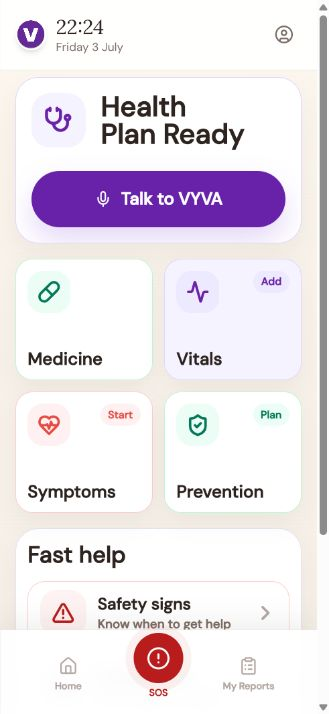
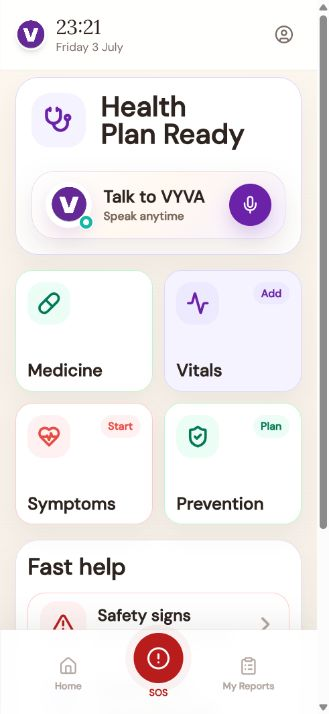
Soften VYVA voice entry

diff --git a/src/components/VyvaSessionCta.tsx b/src/components/VyvaSessionCta.tsx
@@ -1,5 +1,6 @@
 import { useEffect, useMemo, useState } from "react";
 import { Loader2, MessageCircle, Mic } from "lucide-react";
+import vyvaLogo from "@/assets/vyva-logo.png";
 import VoiceCallOverlay from "@/components/VoiceCallOverlay";
 import {
   type VoiceConnectionErrorCode,
@@ -28,6 +29,8 @@ type VyvaSessionCtaProps = {
   testId?: string;
   className?: string;
   iconClassName?: string;
+  supportingLabel?: string;
+  visual?: "default" | "voiceRail";
 };
 
 type VoiceControls = {
@@ -107,6 +110,8 @@ export function VyvaSessionCta({
   testId,
   className,
   iconClassName,
+  supportingLabel,
+  visual = "default",
 }: VyvaSessionCtaProps) {
   const voice = useVyvaVoice() as VoiceControls;
   const {
@@ -218,6 +223,15 @@ export function VyvaSessionCta({
   });
 
   const Icon = isPreparing ? Loader2 : isActive || isConnecting ? MessageCircle : Mic;
+  const isVoiceRail = visual === "voiceRail";
+  const railSupportingLabel = isPreparing
+    ? preparingLabel ?? "Checking voice"
+    : isConnecting
+      ? connectingLabel ?? "Opening voice"
+      : voiceSessionPhase === "error"
+        ? errorLabel ?? "Tap for help"
+        : supportingLabel ?? "Speak anytime";
+  const accessibleLabel = isVoiceRail ? `${statusLabel}. ${railSupportingLabel}` : statusLabel;
 
   return (
     <>
@@ -245,15 +259,43 @@ export function VyvaSessionCta({
           onClick={handleClick}
           disabled={isButtonDisabled}
           data-testid={testId}
-          aria-label={statusLabel}
+          aria-label={accessibleLabel}
           className={className}
         >
-          <Icon
-            size={18}
-            className={`${isPreparing ? "animate-spin" : ""} ${iconClassName ?? ""}`.trim()}
-            aria-hidden="true"
-          />
-          {statusLabel}
+          {isVoiceRail ? (
+            <>
+              <span className="relative flex h-12 w-12 shrink-0 items-center justify-center rounded-full bg-white shadow-[0_8px_20px_rgba(107,33,168,0.14)]">
+                <img src={vyvaLogo} alt="" className="h-10 w-10 rounded-full object-cover" aria-hidden="true" />
+                <span className="absolute -bottom-0.5 -right-0.5 flex h-4 w-4 items-center justify-center rounded-full border-2 border-white bg-[#14B8A6] shadow-sm">
+                  <span className="h-1.5 w-1.5 rounded-full bg-white" />
+                </span>
+              </span>
+              <span className="min-w-0 flex-1 text-left">
+                <span className="block truncate font-body text-[18px] font-black leading-tight text-vyva-text-1 min-[390px]:text-[19px]">
+                  {statusLabel}
+                </span>
+                <span className="mt-0.5 block truncate font-body text-[12px] font-extrabold leading-tight text-[#7A6A5D] min-[390px]:text-[13px]">
+                  {railSupportingLabel}
+                </span>
+              </span>
+              <span className="flex h-11 w-11 shrink-0 items-center justify-center rounded-full bg-[#6B21A8] text-white shadow-[0_8px_18px_rgba(107,33,168,0.22)]">
+                <Icon
+                  size={20}
+                  className={`${isPreparing ? "animate-spin" : ""} ${iconClassName ?? ""}`.trim()}
+                  aria-hidden="true"
+                />
+              </span>
+            </>
+          ) : (
+            <>
+              <Icon
+                size={18}
+                className={`${isPreparing ? "animate-spin" : ""} ${iconClassName ?? ""}`.trim()}
+                aria-hidden="true"
+              />
+              {statusLabel}
+            </>
+          )}
         </button>
       )}
     </>

diff --git a/src/components/MasterDashboardLayout.tsx b/src/components/MasterDashboardLayout.tsx
@@ -26,6 +26,7 @@ type MasterAction = {
   autoStartListening?: boolean;
   canStartVoice?: () => boolean;
   hideWhenSessionActive?: boolean;
+  supportingLabel?: string;
 };
 
 export type MasterDashboardCard = {
@@ -191,7 +192,9 @@ export default function MasterDashboardLayout({
             hideWhenSessionActive={hero.action.hideWhenSessionActive ?? true}
             disabled={hero.action.disabled}
             testId={hero.action.testId}
-            className="vyva-tap mt-6 flex !min-h-[58px] w-full items-center justify-center gap-2.5 rounded-full bg-vyva-purple px-5 font-body text-[18px] font-black text-white shadow-[0_14px_28px_rgba(109,40,217,0.18)] disabled:cursor-wait disabled:opacity-70 min-[390px]:!min-h-[62px] min-[390px]:text-[19px]"
+            supportingLabel={hero.action.supportingLabel}
+            visual="voiceRail"
+            className="vyva-tap mt-6 flex !min-h-[70px] w-full items-center gap-3 rounded-[24px] border border-[#E8DDF3] bg-[linear-gradient(135deg,#FFFFFF_0%,#FFF8F0_48%,#F7F1FF_100%)] px-3.5 text-left shadow-[0_14px_30px_rgba(89,53,24,0.10)] transition-transform hover:-translate-y-0.5 disabled:cursor-wait disabled:opacity-75 min-[390px]:!min-h-[74px] min-[390px]:gap-4 min-[390px]:px-4"
           />
         ) : (
           <button
@@ -199,7 +202,7 @@ export default function MasterDashboardLayout({
             onClick={hero.action.onClick}
             disabled={hero.action.disabled}
             data-testid={hero.action.testId}
-            className="vyva-tap mt-6 flex !min-h-[58px] w-full items-center justify-center gap-2.5 rounded-full bg-vyva-purple px-5 font-body text-[18px] font-black text-white shadow-[0_14px_28px_rgba(109,40,217,0.18)] disabled:cursor-wait disabled:opacity-70 min-[390px]:!min-h-[62px] min-[390px]:text-[19px]"
+            className="vyva-tap mt-6 flex !min-h-[70px] w-full items-center justify-center gap-2.5 rounded-[24px] border border-[#E8DDF3] bg-[linear-gradient(135deg,#FFFFFF_0%,#FFF8F0_48%,#F7F1FF_100%)] px-5 font-body text-[18px] font-black text-vyva-text-1 shadow-[0_14px_30px_rgba(89,53,24,0.10)] transition-transform hover:-translate-y-0.5 disabled:cursor-wait disabled:opacity-75 min-[390px]:!min-h-[74px] min-[390px]:text-[19px]"
           >
             {hero.action.isLoading ? <Loader2 size={18} className="animate-spin" aria-hidden="true" /> : <Mic size={18} aria-hidden="true" />}
             {hero.action.label}

diff --git a/src/i18n/en.ts b/src/i18n/en.ts
@@ -447,6 +447,7 @@ const en = {
       heroEyebrow: "Health Plan",
       heroTitle: "Health Plan Ready",
       talkToVyva: "Talk to VYVA",
+      voiceSupport: "Speak anytime",
       pauseVyva: "Pause VYVA",
       connectingVyva: "Connecting...",
       cards: {
@@ -1724,6 +1725,7 @@ const en = {
   home: {
     master: {
       heroEyebrow: "Today",
+      voiceSupport: "Speak anytime",
       cards: {
         health: "My Health",
         healthDetail: "Medication, vitals, symptoms",
@@ -1792,6 +1794,7 @@ const en = {
     heroEyebrow: "Mind & Memory",
     heroTitle: "Mind check ready",
     heroAction: "Talk to VYVA",
+    voiceSupport: "Speak anytime",
     fastHelpTitle: "Fast help",
     cards: {
       strengthenMemory: "Strengthen Memory",
@@ -1823,6 +1826,7 @@ const en = {
       heroEyebrow: "Community",
       heroTitle: "Community ready",
       heroAction: "Talk to VYVA",
+      voiceSupport: "Speak anytime",
       fastHelpTitle: "Fast help",
       cards: {
         match: "Make Friends",
@@ -1855,6 +1859,7 @@ const en = {
       heroEyebrow: "Concierge",
       heroTitle: "Concierge ready",
       heroAction: "Talk to VYVA",
+      voiceSupport: "Speak anytime",
       cards: {
         homeCare: "Home Care",
         homeCareDetail: "Plumber, electrician, cleaning",

diff --git a/src/components/VyvaSessionCta.test.tsx b/src/components/VyvaSessionCta.test.tsx
@@ -125,4 +125,19 @@ describe("VyvaSessionCta", () => {
     expect(screen.queryByTestId("button-session")).not.toBeInTheDocument();
     expect(voiceState.startVoice).not.toHaveBeenCalled();
   });
+
+  it("renders the warm anytime voice rail when requested", () => {
+    render(
+      <VyvaSessionCta
+        label="Talk to VYVA"
+        supportingLabel="Speak anytime"
+        visual="voiceRail"
+        testId="button-session"
+      />,
+    );
+
+    expect(screen.getByTestId("button-session")).toHaveAccessibleName("Talk to VYVA. Speak anytime");
+    expect(screen.getByTestId("button-session")).toHaveTextContent("Talk to VYVA");
+    expect(screen.getByTestId("button-session")).toHaveTextContent("Speak anytime");
+  });
 });

diff --git a/src/pages/ConciergeScreen.tsx b/src/pages/ConciergeScreen.tsx
@@ -3336,6 +3336,7 @@ const ConciergeScreen = () => {
         action: {
           kind: "voice",
           label: t("concierge.master.heroAction", "Talk to VYVA"),
+          supportingLabel: t("concierge.master.voiceSupport", "Speak anytime"),
           contextHint: t("concierge.master.voiceContext", "Concierge support. Ask what the user needs, compare options, and do not book or submit anything without confirmation."),
           voiceAgentSlug: "concierge",
           voiceDynamicVariables: { app_entrypoint: "concierge_master_hero" },

diff --git a/src/social/SocialHub.tsx b/src/social/SocialHub.tsx
@@ -774,6 +774,7 @@ const SocialHub = () => {
           action: {
             kind: "voice",
             label: t("community.master.heroAction", "Talk to VYVA"),
+            supportingLabel: t("community.master.voiceSupport", "Speak anytime"),
             contextHint: t("community.master.voiceContext", "Community support. Help the user join a room, find a match, share a memory, or choose a gentle activity."),
             voiceAgentSlug: "community",
             voiceDynamicVariables: { app_entrypoint: "community_master_hero" },

diff --git a/src/pages/MindMemoryScreen.tsx b/src/pages/MindMemoryScreen.tsx
@@ -119,6 +119,7 @@ export default function MindMemoryScreen() {
         action: {
           kind: "voice",
           label: t("mindMemory.heroAction", "Talk to VYVA"),
+          supportingLabel: t("mindMemory.voiceSupport", "Speak anytime"),
           contextHint: t("mindMemory.voiceContext", "Mind and memory support. Ask about memory, mood, confusion, focus, sleep, and safe next steps."),
           voiceAgentSlug: "brain-coach",
           voiceDynamicVariables: { app_entrypoint: "mind_memory_master_hero" },

diff --git a/src/pages/HealthScreen.tsx b/src/pages/HealthScreen.tsx
@@ -3023,6 +3023,7 @@ const HealthScreen = () => {
           action: {
             kind: "voice",
             label: t("health.master.talkToVyva", "Talk to VYVA"),
+            supportingLabel: t("health.master.voiceSupport", "Speak anytime"),
             contextHint: t("health.master.voiceContext", "Health plan support. Ask about medicines, vitals, symptoms, prevention, and safe next steps."),
             voiceAgentSlug: "health",
             voiceDynamicVariables: { app_entrypoint: "health_master_hero" },

diff --git a/src/pages/HomeScreen.tsx b/src/pages/HomeScreen.tsx
@@ -713,6 +713,7 @@ const HomeScreen = () => {
         action: {
           kind: "voice",
           label: t("home.mode.voiceCta", "Talk to VYVA"),
+          supportingLabel: t("home.master.voiceSupport", "Speak anytime"),
           contextHint: t("home.master.voiceContext", "Home screen. Ask what the user needs and help them choose the safest next step."),
           voiceAgentSlug: "main-vyva",
           voiceDynamicVariables: { app_entrypoint: "home_master_hero" },
